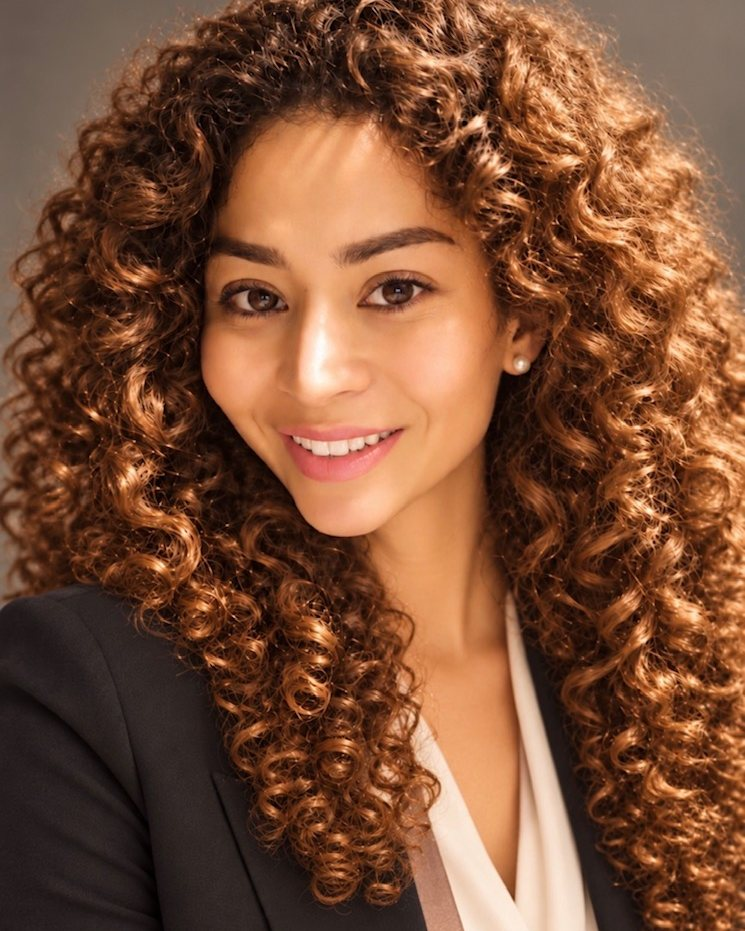
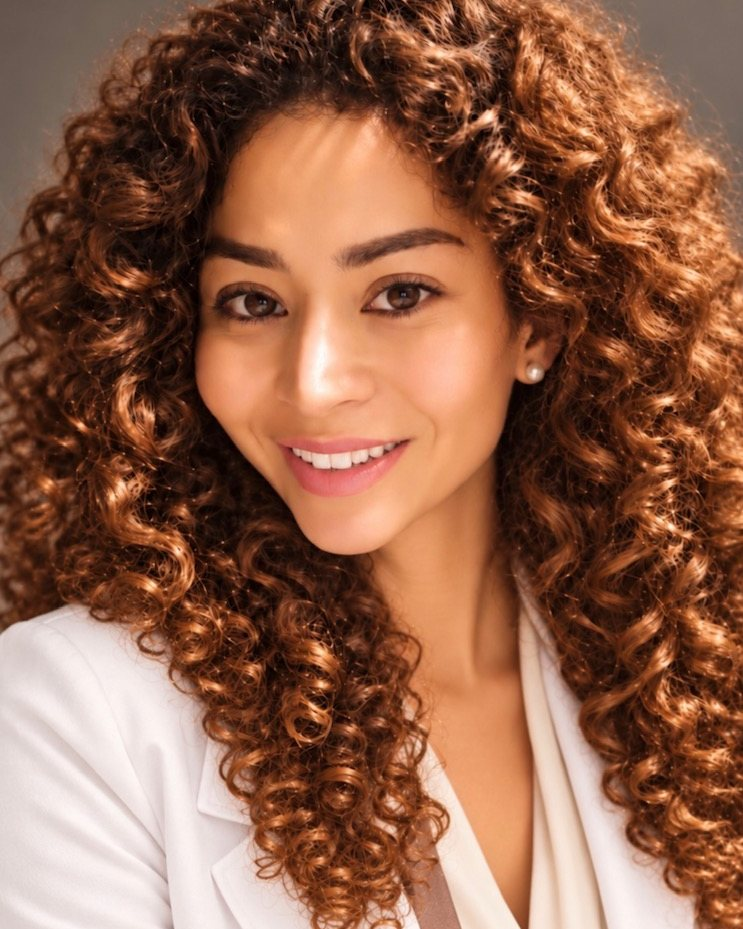
Om mig: portræt skiftet til billedet med hvid jakke

diff --git a/om.html b/om.html
@@ -74,7 +74,7 @@
 
   <section class="bg-white">
     <div class="wrap split">
-      <img src="assets/img/nancy.jpg?v=2" alt="Phattree Nancy Jensen" style="object-position: 50% 30%">
+      <img src="assets/img/nancy.jpg?v=3" alt="Phattree Nancy Jensen" style="object-position: 50% 30%">
       <div>
         <span class="eyebrow">Min historie</span>
         <h2>Fra egen hudrejse til passion</h2>
